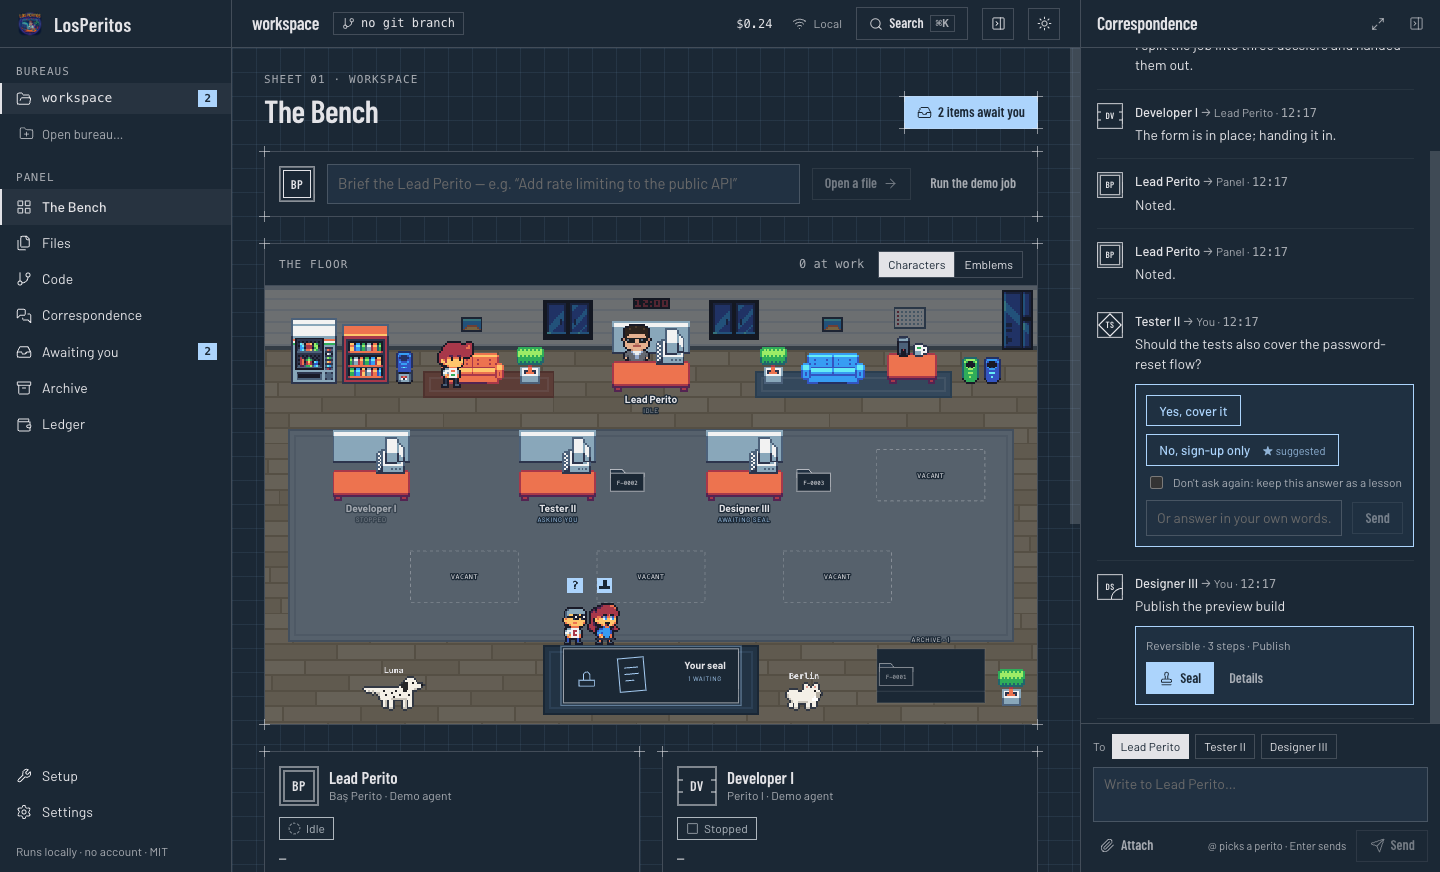
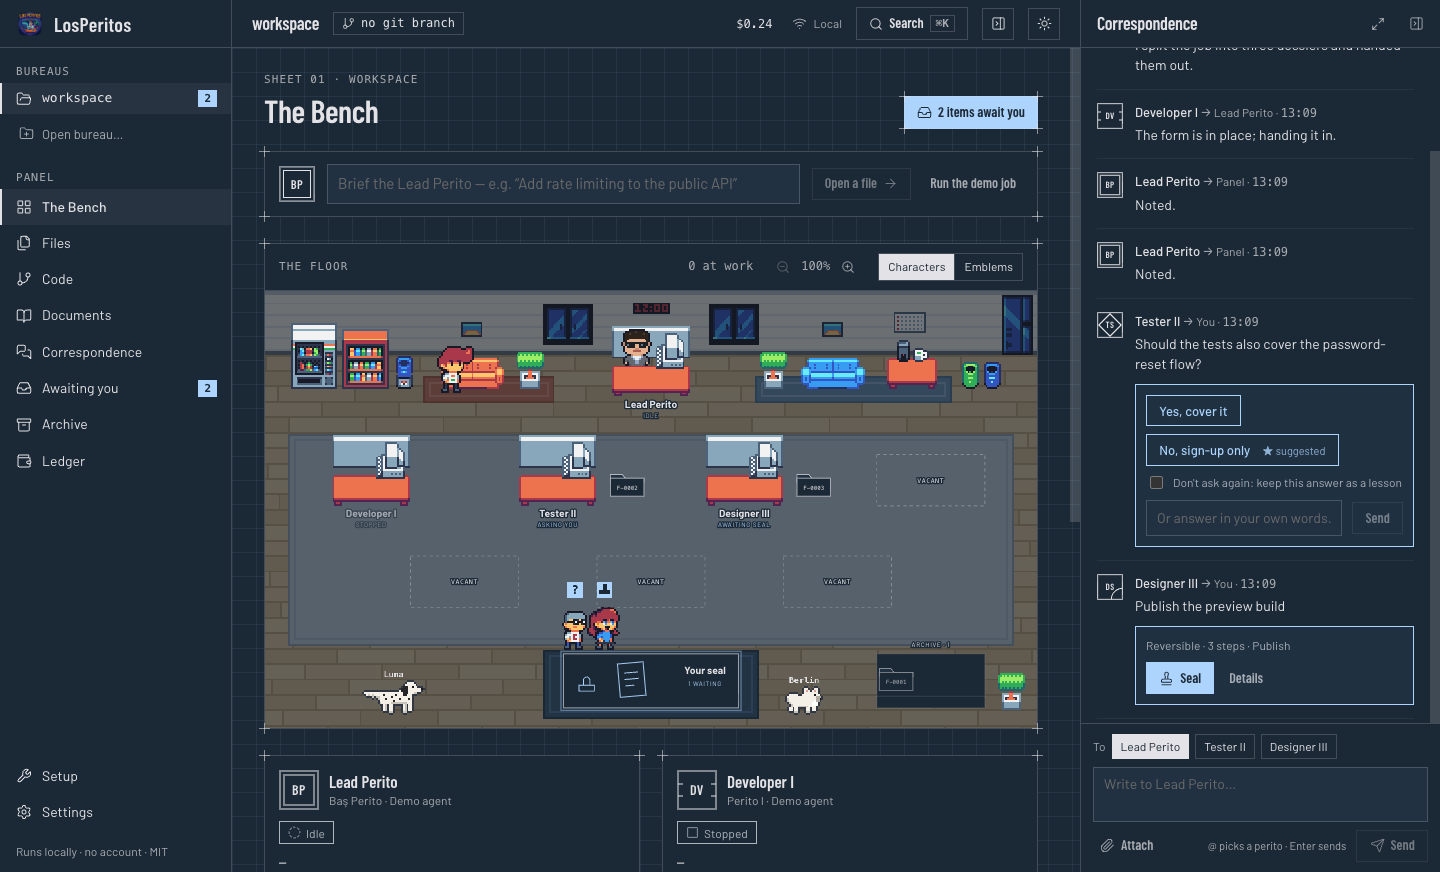
Release 0.4.0

diff --git a/README.tr.md b/README.tr.md
@@ -115,7 +115,7 @@ Ekran görüntüleri İngilizce arayüzden alındı; arayüzün tamamı Türkçe
 ## Dene
 
 **İndir.** [Son sürümden](https://github.com/peritotr/LosPeritos/releases/latest)
-`LosPeritos-0.3.0-arm64.dmg` dosyasını indir, aç ve LosPeritos'u Uygulamalar
+`LosPeritos-0.4.0-arm64.dmg` dosyasını indir, aç ve LosPeritos'u Uygulamalar
 klasörüne sürükle. İmzalı ve noter onaylıdır; diğer Mac uygulamaları gibi
 açılır. Apple silicon işlemcili Mac ile kurulu
 [git](https://git-scm.com/downloads) ve

diff --git a/README.md b/README.md
@@ -113,7 +113,7 @@ a file yourself, set its priority, make it wait for another, or cancel it.
 
 ## Try it
 
-**Download.** Get `LosPeritos-0.3.0-arm64.dmg` from the
+**Download.** Get `LosPeritos-0.4.0-arm64.dmg` from the
 [latest release](https://github.com/peritotr/LosPeritos/releases/latest), open
 it, and drag LosPeritos to Applications. It is signed and notarised, so it
 opens like any other Mac app. It needs an Apple silicon Mac, and

diff --git a/CHANGELOG.md b/CHANGELOG.md
@@ -1,6 +1,6 @@
 # Changelog
 
-## Unreleased
+## 0.4.0 — 2026-11-23
 
 **The floor**
 - Peritos walk between their desk and yours: a figure on the move lifts one
